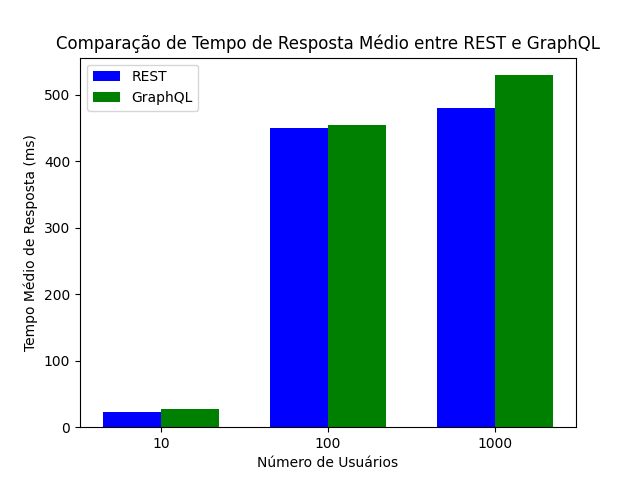
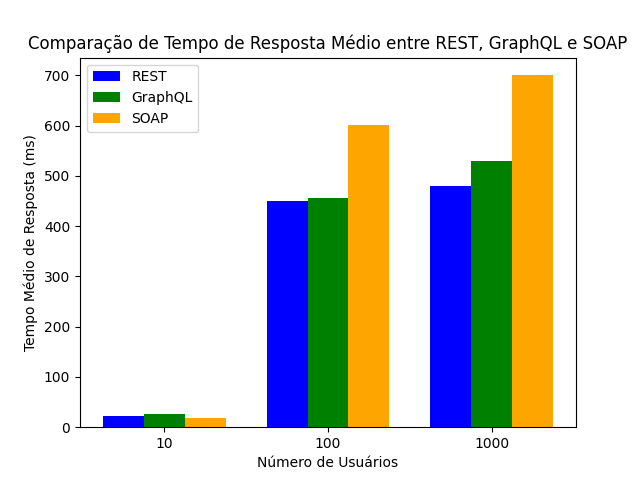
Add files via upload

diff --git a/graficos.py b/graficos.py
@@ -12,10 +12,13 @@ files = {
     "1000-REST": "1000-REST.csv",
     "10-GraphQL": "10-Graphql.csv",
     "100-GraphQL": "100-Graphql.csv",
-    "1000-GraphQL": "1000-Graphql.csv"
+    "1000-GraphQL": "1000-Graphql.csv",
+    "10-SOAP": "10-SOAP.csv",
+    "100-SOAP": "100-SOAP.csv",
+    "1000-SOAP": "1000-SOAP.csv"
 }
 
-# Filtrando as requisições REST e GraphQL
+# Filtrando as requisições REST, GraphQL e SOAP
 rest_queries = [
     "GET /usuarios",
     "GET /musicas",
@@ -32,10 +35,16 @@ graphql_queries = [
     "GraphQL: Usuarios"
 ]
 
+soap_queries = [
+    "SOAP - listarMusicas",
+    "SOAP - listarUsuarios"
+]
+
 # Dicionário para armazenar os tempos médios de resposta
 response_times = {
     "REST": {},
-    "GraphQL": {}
+    "GraphQL": {},
+    "SOAP": {}
 }
 
 # Função para calcular o tempo médio de resposta
@@ -47,16 +56,27 @@ def calculate_avg_response_time(df, queries):
 for file_name, file_path in files.items():
     df = pd.read_csv(file_path)
     
-    # Verificar se o arquivo é REST ou GraphQL
+    # Verificar se o arquivo é REST, GraphQL ou SOAP
     if "REST" in file_name:
         key = "REST"
-    else:
+        queries = rest_queries
+    elif "GraphQL" in file_name:
         key = "GraphQL"
+        queries = graphql_queries
+    else:
+        key = "SOAP"
+        queries = soap_queries
+        print(f"Processando {file_name}")
+        print("Consultas encontradas no CSV:", df['Name'].unique())  # Debugging
     
     user_count = file_name.split('-')[0]
     
     # Calcular o tempo médio de resposta para as requisições
-    avg_response_time = calculate_avg_response_time(df, rest_queries if key == "REST" else graphql_queries)
+    avg_response_time = calculate_avg_response_time(df, queries)
+    
+    # Garantir que valores inválidos não causem problemas
+    if pd.isna(avg_response_time):
+        avg_response_time = 0  # Substitua por um valor padrão adequado, se necessário
     
     # Armazenar o resultado no dicionário
     if user_count not in response_times[key]:
@@ -67,24 +87,32 @@ for file_name, file_path in files.items():
 # Preparar os dados para o gráfico
 rest_avg_times = [response_times["REST"][str(num)][0] for num in [10, 100, 1000]]
 graphql_avg_times = [response_times["GraphQL"][str(num)][0] for num in [10, 100, 1000]]
+soap_avg_times = [response_times["SOAP"][str(num)][0] for num in [10, 100, 1000]]
+
+# Verificar os valores calculados
+print("Tempos Médios Calculados:")
+print(f"REST: {rest_avg_times}")
+print(f"GraphQL: {graphql_avg_times}")
+print(f"SOAP: {soap_avg_times}")
 
 # Configurar o gráfico
-bar_width = 0.35
+bar_width = 0.25
 x = range(len([10, 100, 1000]))  # Número de usuários
 
 # Plotar os dados
 plt.bar(x, rest_avg_times, bar_width, label="REST", color='blue')
 plt.bar([i + bar_width for i in x], graphql_avg_times, bar_width, label="GraphQL", color='green')
+plt.bar([i + 2 * bar_width for i in x], soap_avg_times, bar_width, label="SOAP", color='orange')
 
-# Adicionar título e labels
-plt.title('Comparação de Tempo de Resposta Médio entre REST e GraphQL')
+# Ajustar as posições no eixo X
+plt.xticks([i + bar_width for i in x], ['10', '100', '1000'])
+
+# Adicionar título e legendas
+plt.title('Comparação de Tempo de Resposta Médio entre REST, GraphQL e SOAP')
 plt.xlabel('Número de Usuários')
 plt.ylabel('Tempo Médio de Resposta (ms)')
-plt.xticks([i + bar_width / 2 for i in x], ['10', '100', '1000'])
 plt.legend()
 
-# Salvar o gráfico em um arquivo PNG
+# Salvar o gráfico
 plt.savefig("grafico_comparacao.png")
-
-# Exibir uma mensagem indicando que o gráfico foi salvo
 print("O gráfico foi salvo como 'grafico_comparacao.png'.")
